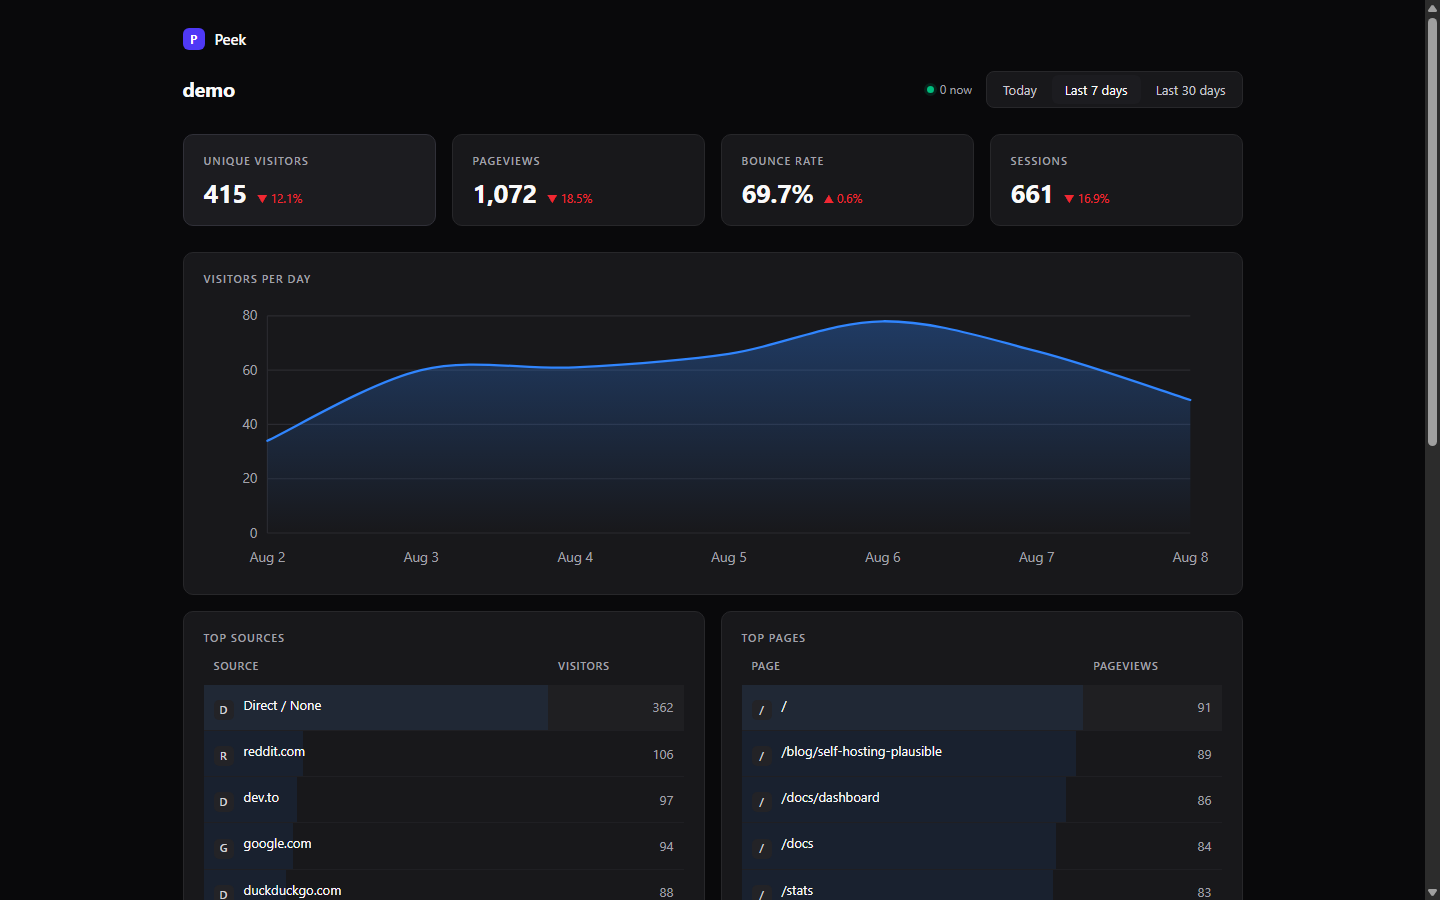
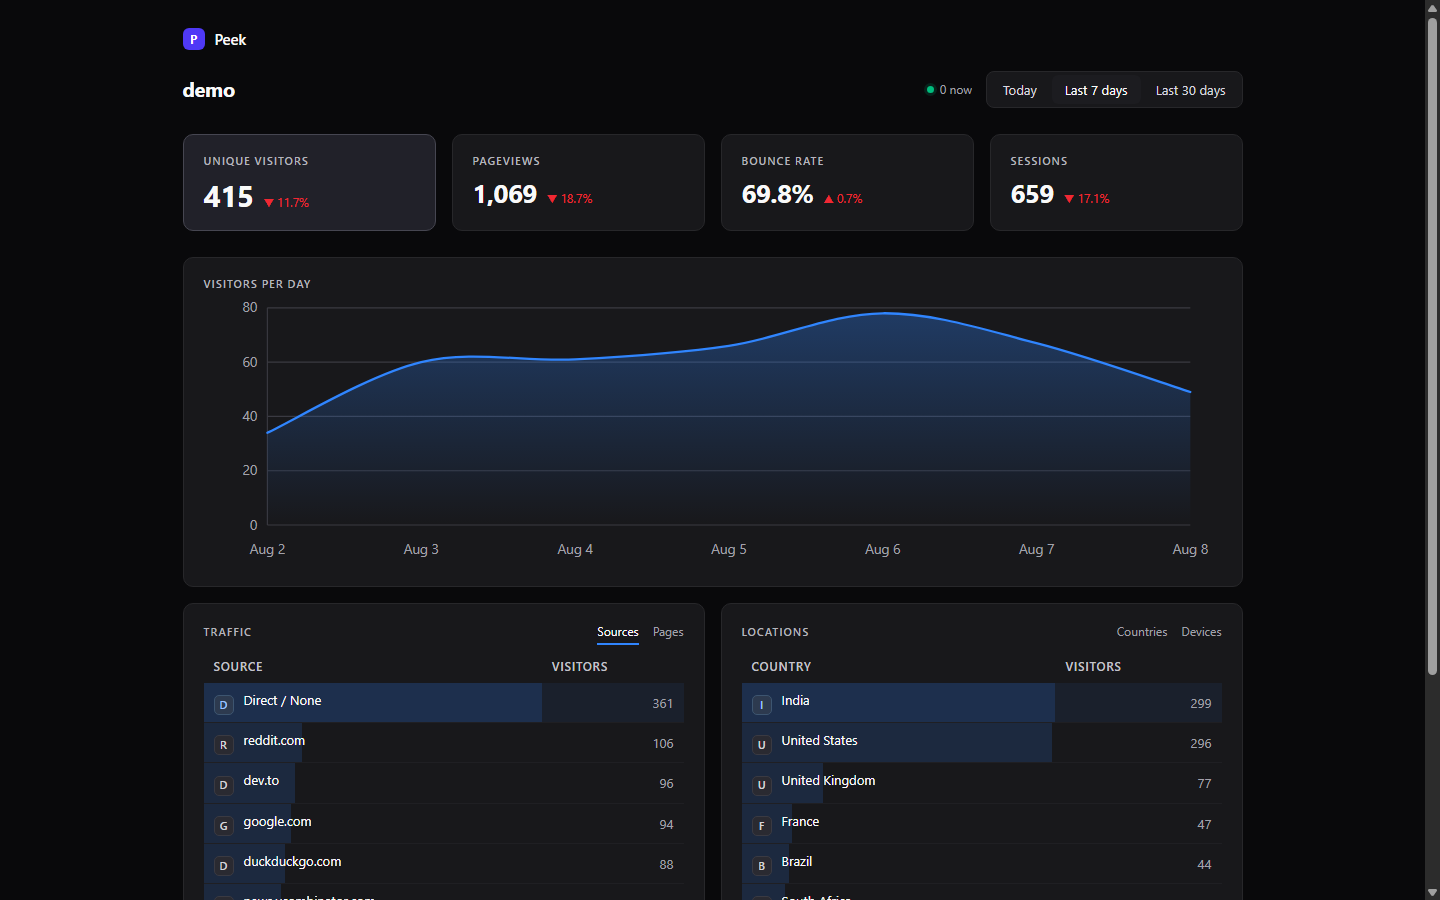
round 6: contrast pass (gridlines #3a3a42, bars .16, top-row blue highlight+glyph, headers #c4c4cc, pill #d8d8df, primary KPI #212129/30px hero), tabbed Traffic+Locations cards, row density 7px, mobile bottom 96px

diff --git a/views/dashboard.html b/views/dashboard.html
@@ -18,31 +18,38 @@ body{background:var(--bg);color:var(--txt);font:14px/1.5 system-ui,-apple-system
 .live{display:inline-flex;align-items:center;gap:6px;color:var(--mut);font-size:12px}
 .live i{width:7px;height:7px;border-radius:50%;background:var(--up);box-shadow:0 0 0 3px rgba(0,188,125,.15)}
 .ranges{display:flex;gap:2px;background:var(--panel);border:1px solid var(--line);border-radius:8px;padding:3px}
-.ranges a{color:#c7c7ce;text-decoration:none;padding:5px 13px;border-radius:6px;font-size:13px;transition:background .15s,color .15s}
+.ranges a{color:#d8d8df;text-decoration:none;padding:5px 13px;border-radius:6px;font-size:13px;transition:background .15s,color .15s}
 .ranges a:hover{color:var(--txt)}
 .ranges a.on{background:var(--panel2);color:var(--txt)}
 .kpis{display:grid;grid-template-columns:repeat(4,1fr);gap:16px;margin-bottom:26px}
 .kpi{background:var(--panel);border:1px solid var(--line);border-radius:10px;padding:18px 20px}
-.kpi:first-child{background:var(--panel2);border-color:#303038}
-.kpi h3{font-size:11px;text-transform:uppercase;letter-spacing:.09em;color:var(--mut);font-weight:500;margin-bottom:9px}
+.kpi:first-child{background:#212129;border-color:#464651}
+.kpi h3{font-size:11px;text-transform:uppercase;letter-spacing:.09em;color:#b4b4bc;font-weight:500;margin-bottom:9px}
 .kpi .valrow{display:flex;align-items:baseline;gap:10px;flex-wrap:wrap}
 .kpi .num{font-size:26px;font-weight:650;letter-spacing:-.02em;font-variant-numeric:tabular-nums;line-height:1.1}
+.kpi:first-child .num{font-size:30px}
 .tr{display:inline-block;font-size:12px;font-variant-numeric:tabular-nums}
 .tr.up{color:var(--up)}.tr.down{color:var(--down)}.tr.flat{color:var(--dim)}
 .card{background:var(--panel);border:1px solid var(--line);border-radius:10px;padding:18px 20px;margin-bottom:16px}
-.card h2{font-size:11px;text-transform:uppercase;letter-spacing:.09em;color:var(--mut);font-weight:500;margin-bottom:12px}
+.cardhead{display:flex;align-items:baseline;justify-content:space-between;gap:12px;margin-bottom:12px}
+.card h2{font-size:11px;text-transform:uppercase;letter-spacing:.09em;color:#b4b4bc;font-weight:500}
+.tabs{display:flex;gap:14px}
+.tabs a{font-size:12px;color:var(--mut);text-decoration:none;padding-bottom:3px;border-bottom:2px solid transparent}
+.tabs a:hover{color:var(--txt)}
+.tabs a.on{color:var(--txt);border-bottom-color:var(--acc)}
 .grid2{display:grid;grid-template-columns:1fr 1fr;gap:16px}
 table{width:100%;border-collapse:collapse}
-th{color:var(--mut);font-weight:500;text-align:left;font-size:11px;text-transform:uppercase;letter-spacing:.06em;padding:0 10px 10px}
-td{padding:10px 10px;border-bottom:1px solid var(--line2);font-size:13px;color:var(--mut);position:relative}
+th{color:#c4c4cc;font-weight:500;text-align:left;font-size:12px;text-transform:uppercase;letter-spacing:.06em;padding:0 10px 8px}
+td{padding:7px 10px;border-bottom:1px solid var(--line2);font-size:13px;color:var(--mut);position:relative}
 tbody tr{transition:background .12s}
-tbody tr:hover{background:rgba(255,255,255,.02)}
-tbody tr.top td{background:rgba(255,255,255,.03)}
+tbody tr:hover{background:rgba(255,255,255,.03)}
+tbody tr.top td{background:rgba(48,133,254,.08)}
 td:first-child{color:var(--txt)}
 td:last-child{text-align:right;font-variant-numeric:tabular-nums;color:var(--mut)}
 tr:last-child td{border-bottom:none}
-.bar{position:absolute;left:0;top:0;bottom:0;background:rgba(48,133,254,.09);z-index:0}
-.mono{display:inline-flex;width:20px;height:20px;border-radius:5px;background:#232327;color:#d4d4d8;align-items:center;justify-content:center;font-size:11px;font-weight:600;margin-right:10px;vertical-align:-4px;position:relative;z-index:1}
+.bar{position:absolute;left:0;top:0;bottom:0;background:rgba(48,133,254,.16);z-index:0}
+.mono{display:inline-flex;width:20px;height:20px;border-radius:5px;background:#2a2a31;border:1px solid #3a3a42;color:#d4d4d8;align-items:center;justify-content:center;font-size:11px;font-weight:600;margin-right:10px;vertical-align:-4px;position:relative;z-index:1}
+tr.top .mono{background:#2d3a4f;border-color:#3d5570;color:#9cc2ff}
 .nm{position:relative;z-index:1}
 .empty{color:var(--dim);font-size:13px;padding:10px 2px}
 .chart{width:100%;height:auto;display:block}
@@ -51,7 +58,7 @@ tr:last-child td{border-bottom:none}
 @media (max-width:760px){
   .chart-d{display:none}
   .chart-m{display:block}
-  .wrap{padding:20px 14px 72px}
+  .wrap{padding:20px 14px 96px}
   .sitebar{flex-direction:column;align-items:flex-start;gap:14px}
   .kpis{grid-template-columns:repeat(2,1fr);gap:12px}
   .kpi{padding:14px}
@@ -80,12 +87,8 @@ tr:last-child td{border-bottom:none}
     {{CHART}}
   </div>
   <div class="grid2">
-    <div class="card"><h2>Top sources</h2>{{REFS}}</div>
-    <div class="card"><h2>Top pages</h2>{{PAGES}}</div>
-  </div>
-  <div class="grid2">
-    <div class="card"><h2>Countries</h2>{{COUNTRIES}}</div>
-    <div class="card"><h2>Devices</h2>{{DEVICES}}</div>
+    <div class="card"><div class="cardhead"><h2>Traffic</h2><nav class="tabs">{{TR_TABS}}</nav></div>{{TR_TABLE}}</div>
+    <div class="card"><div class="cardhead"><h2>Locations</h2><nav class="tabs">{{LOC_TABS}}</nav></div>{{LOC_TABLE}}</div>
   </div>
 </div>
 </body>

diff --git a/server.js b/server.js
@@ -102,6 +102,10 @@ function renderDashboard(req, res) {
     chart = lib.chartSVG(lib.perDay(SITE, Math.floor(start / 1000), Math.floor(now / 1000)), 'day');
   }
 
+  const tab = req.query.tab === 'pages' ? 'pages' : req.query.tab === 'countries' ? 'countries' : req.query.tab === 'devices' ? 'devices' : 'sources';
+  const tabs = (current, pairs) => pairs.map(([k, label]) =>
+    `<a href="/dashboard?range=${range}&tab=${k}"${k === current ? ' class="on"' : ''}>${label}</a>`).join('');
+
   const html = DASH
     .replaceAll('{{SITE}}', esc(SITE))
     .replaceAll('{{RANGE_LINKS}}', links)
@@ -111,10 +115,14 @@ function renderDashboard(req, res) {
     .replaceAll('{{SESSIONS}}', lib.fmt(cur.sessions)).replaceAll('{{SESSIONS_TREND}}', trend(cur.sessions, prev.sessions))
     .replaceAll('{{LIVE}}', lib.currentVisitors(SITE))
     .replaceAll('{{CHART}}', chart)
-    .replaceAll('{{REFS}}', rows(lib.topRefs(SITE, Math.floor(start / 1000)), 'ref', 'pv', ['Source', 'Visitors']))
-    .replaceAll('{{PAGES}}', rows(lib.topPages(SITE, Math.floor(start / 1000)), 'path', 'pv', ['Page', 'Pageviews']))
-    .replaceAll('{{COUNTRIES}}', rows(lib.topCountries(SITE, Math.floor(start / 1000)).map(r => ({ ...r, country: cname(r.country) })), 'country', 'pv', ['Country', 'Visitors']))
-    .replaceAll('{{DEVICES}}', rows(lib.topScr(SITE, Math.floor(start / 1000)).map(r => ({ ...r, scr: r.scr[0].toUpperCase() + r.scr.slice(1) })), 'scr', 'pv', ['Device', 'Visitors']));
+    .replaceAll('{{TR_TABS}}', tabs(tab, [['sources', 'Sources'], ['pages', 'Pages']]))
+    .replaceAll('{{LOC_TABS}}', tabs(tab, [['countries', 'Countries'], ['devices', 'Devices']]))
+    .replaceAll('{{TR_TABLE}}', tab === 'pages'
+      ? rows(lib.topPages(SITE, Math.floor(start / 1000)), 'path', 'pv', ['Page', 'Pageviews'])
+      : rows(lib.topRefs(SITE, Math.floor(start / 1000)), 'ref', 'pv', ['Source', 'Visitors']))
+    .replaceAll('{{LOC_TABLE}}', tab === 'devices'
+      ? rows(lib.topScr(SITE, Math.floor(start / 1000)).map(r => ({ ...r, scr: r.scr[0].toUpperCase() + r.scr.slice(1) })), 'scr', 'pv', ['Device', 'Visitors'])
+      : rows(lib.topCountries(SITE, Math.floor(start / 1000)).map(r => ({ ...r, country: cname(r.country) })), 'country', 'pv', ['Country', 'Visitors']));
   res.set('Cache-Control', 'no-store');
   res.send(html);
 }

diff --git a/lib.js b/lib.js
@@ -175,10 +175,10 @@ function buildChart(points, mode, { w, h, padL, padR, padT, padB, cls, gid, nX }
   const X = i => padL + (points.length === 1 ? iw / 2 : (i / (points.length - 1)) * iw);
   const Y = v => padT + ih - (v / max) * ih;
   let out = '';
-  out += `<line x1="${padL}" y1="${padT}" x2="${padL}" y2="${padT + ih}" stroke="#2b2b31" stroke-width="1"/>`;
+  out += `<line x1="${padL}" y1="${padT}" x2="${padL}" y2="${padT + ih}" stroke="#3a3a42" stroke-width="1"/>`;
   for (let g = 0; g <= 4; g++) {
     const v = (max / 4) * g, y = Y(v);
-    out += `<line x1="${padL}" y1="${y}" x2="${w - padR}" y2="${y}" stroke="#2b2b31" stroke-width="1"/>`;
+    out += `<line x1="${padL}" y1="${y}" x2="${w - padR}" y2="${y}" stroke="#3a3a42" stroke-width="1"/>`;
     out += `<text x="${padL - 9}" y="${y + 4}" text-anchor="end">${fmt(v)}</text>`;
   }
   const pts = points.map((p, i) => [X(i), Y(p.uv)]);
